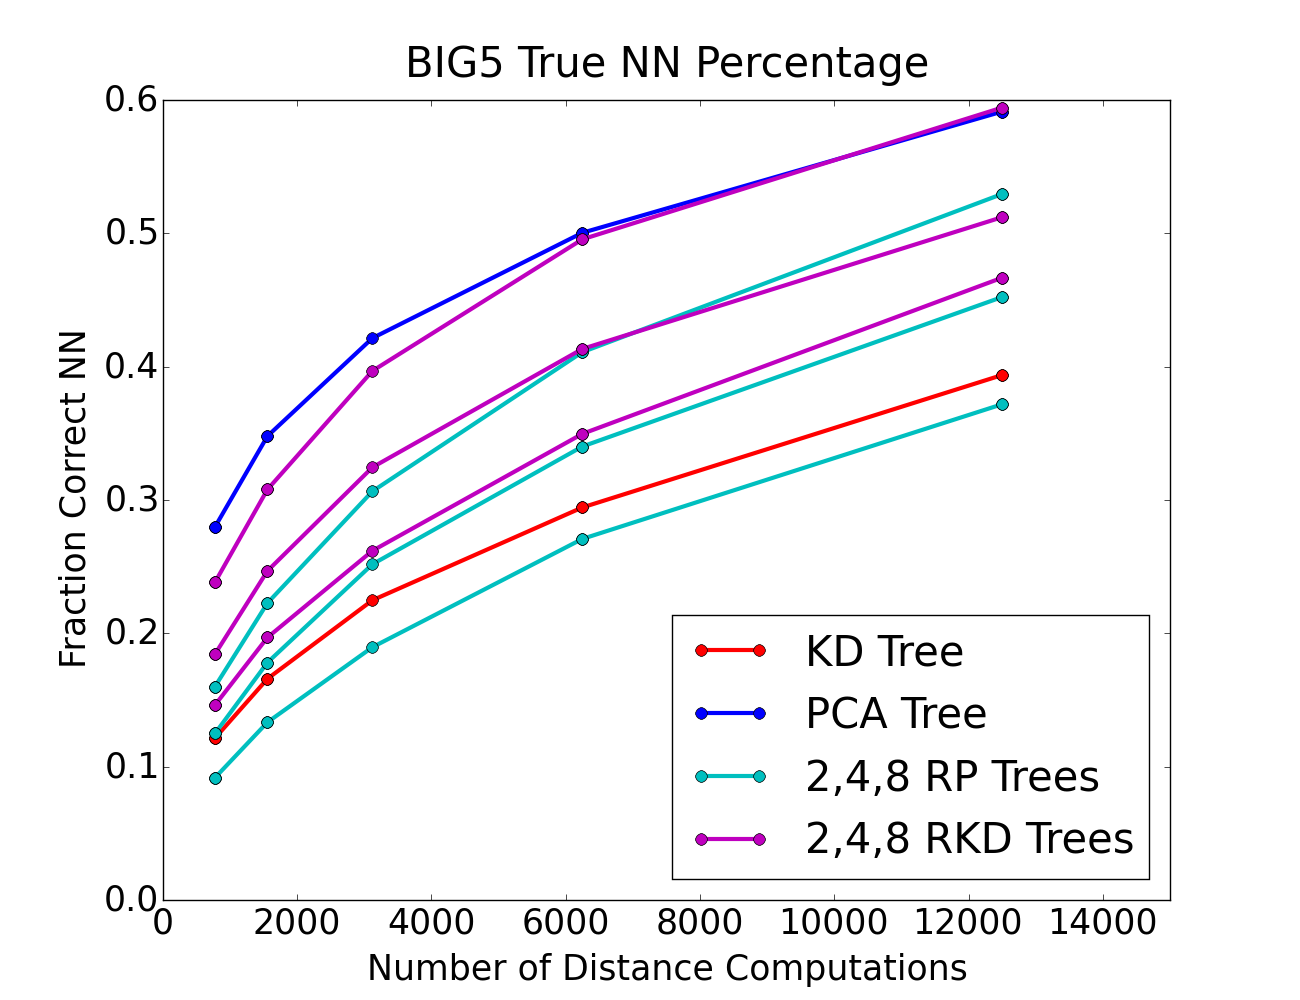
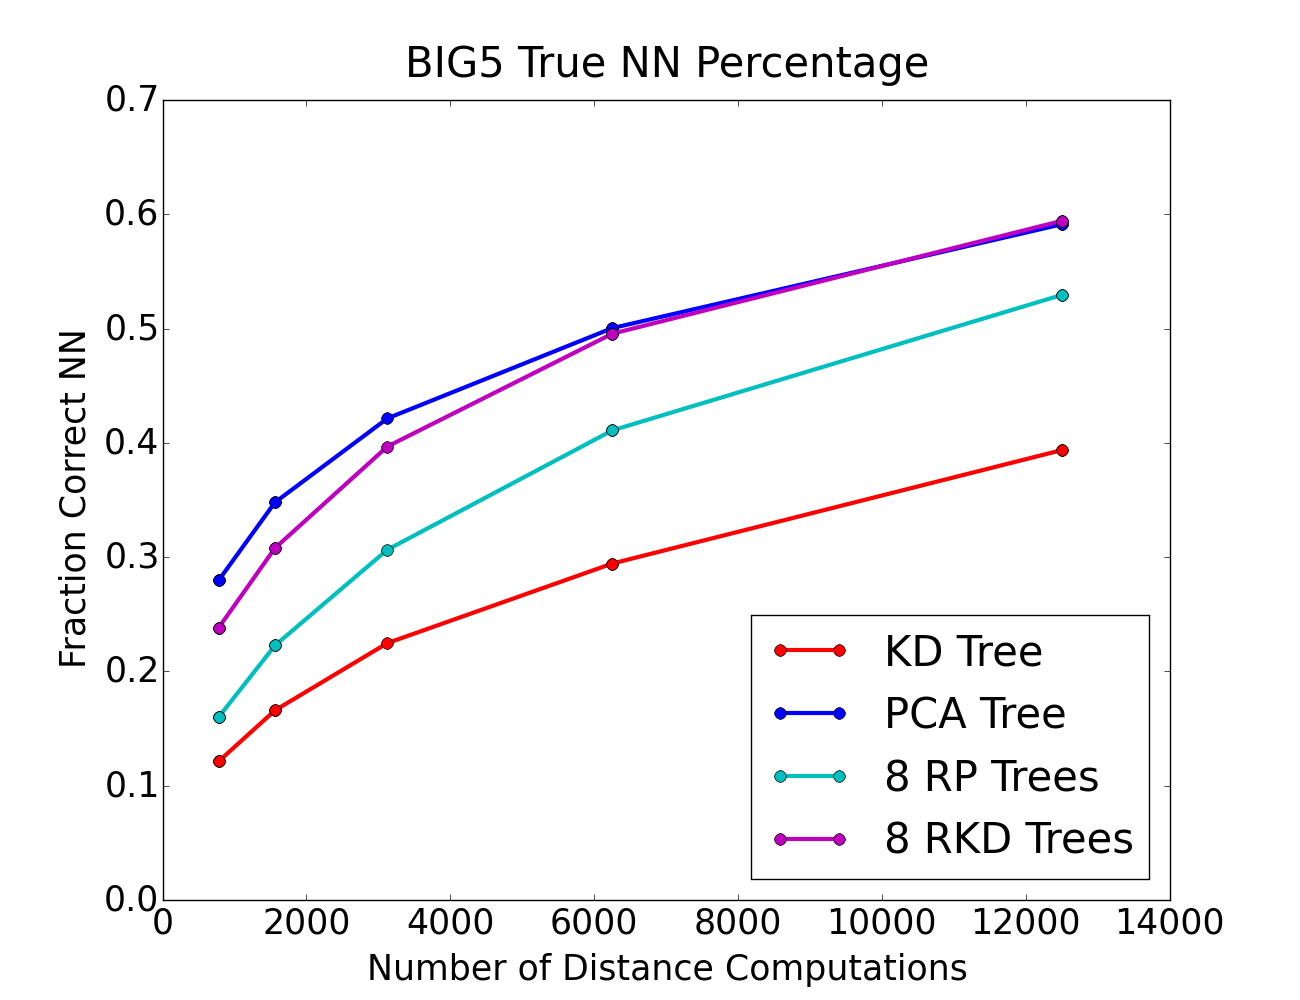
added rp tree data and graphs

diff --git a/data/mnist/pyplot.py b/data/mnist/pyplot.py
@@ -45,7 +45,7 @@ def kd():
 	plt.savefig("mnist_kd.png")
 
 def kd_pca():
-	plt.axis([0,8000,0.3,0.8])
+	plt.axis([0,8000,0.3,0.9])
 	kd_x, kd_y = read_file(3,2,'kd_tree.dat')
 	pca_x, pca_y = read_file(3,2,'pca_tree.dat')
 	kd_line, = plt.plot(kd_x, kd_y, 'ro-', label='KD Tree', lw=3, ms=8)
@@ -160,45 +160,47 @@ def kd_pca_ran():
 	figure.set_size_inches(13, 10)
 	plt.savefig("mnist_kd_pca_ran8.png")
 
-def kd_pca_rp():
-	plt.axis([0,8000,0.2,1])
+def rp2_kd():
+	plt.axis([0,8000,0.3,0.8])
 	kd_x, kd_y = read_file(3,2,'kd_tree.dat')
-	pca_x, pca_y = read_file(3,2,'pca_tree.dat')
+	ran_x, ran_y = read_file(3,2,'2rp_tree.dat')
+	kd_line, = plt.plot(kd_x, kd_y, 'ro-', label='KD Tree', lw=3, ms=8)
+	ran_line, = plt.plot(ran_x, ran_y, 'bo-', label='2 RP Trees', lw=3, ms=8)
+	plt.legend(handles=[kd_line,ran_line],loc=4)
+	figure = plt.gcf()
+	figure.set_size_inches(13, 10)
+	plt.savefig(data_set + "_rp2_kd.png")
+
+def rp8_kd():
+	plt.axis([0,8000,0.3,0.9])
+	kd_x, kd_y = read_file(3,2,'kd_tree.dat')
 	ran_x, ran_y = read_file(3,2,'2rp_tree.dat')
 	ran4_x, ran4_y = read_file(3,2,'4rp_tree.dat')
 	ran8_x, ran8_y = read_file(3,2,'8rp_tree.dat')
 	kd_line, = plt.plot(kd_x, kd_y, 'ro-', label='KD Tree', lw=3, ms=8)
-	pca_line, = plt.plot(pca_x, pca_y, 'bo-', label='PCA Tree', lw=3, ms=8)
 	ran_line, = plt.plot(ran_x, ran_y, 'go-', label='2 RP Trees', lw=3, ms=8)
-	ran4_line, = plt.plot(ran4_x, ran4_y, 'co-', label='4 RP Trees', lw=3, ms=8)
+	ran4_line, = plt.plot(ran4_x, ran4_y, 'bo-', label='4 RP Trees', lw=3, ms=8)
 	ran8_line, = plt.plot(ran8_x, ran8_y, 'mo-', label='8 RP Trees', lw=3, ms=8)
-	plt.legend(handles=[kd_line,pca_line, ran_line,ran4_line,ran8_line],loc=4)
+	plt.legend(handles=[kd_line,ran_line,ran4_line,ran8_line],loc=4)
 	figure = plt.gcf()
 	figure.set_size_inches(13, 10)
-	plt.savefig("mnist_kd_pca_rp8.png")
+	plt.savefig(data_set + "_rp8_kd.png")
 
-def kd_pca_rp_ran():
-	plt.axis([0,8000,0,1])
+def kd_pca_ran_rp():
+	plt.axis([0,8000,0.3,1])
 	kd_x, kd_y = read_file(3,2,'kd_tree.dat')
 	pca_x, pca_y = read_file(3,2,'pca_tree.dat')
-	rp_x, rp_y = read_file(3,2,'2rp_tree.dat')
-	rp4_x, rp4_y = read_file(3,2,'4rp_tree.dat')
 	rp8_x, rp8_y = read_file(3,2,'8rp_tree.dat')
+	ran8_x, ran8_y = read_file(3,2,'8rkd_tree.dat')
 	kd_line, = plt.plot(kd_x, kd_y, 'ro-', label='KD Tree', lw=3, ms=8)
 	pca_line, = plt.plot(pca_x, pca_y, 'bo-', label='PCA Tree', lw=3, ms=8)
-	rp_line, = plt.plot(rp_x, rp_y, 'yo-', label='2 RP Trees', lw=3, ms=8)
-	rp4_line, = plt.plot(rp4_x, rp4_y, 'yo-', label='4 RP Trees', lw=3, ms=8)
-	rp8_line, = plt.plot(rp8_x, rp8_y, 'yo-', label='8 RP Trees', lw=3, ms=8)
-	ran_x, ran_y = read_file(3,2,'2rkd_tree.dat')
-	ran4_x, ran4_y = read_file(3,2,'4rkd_tree.dat')
-	ran8_x, ran8_y = read_file(3,2,'8rkd_tree.dat')
-	ran_line, = plt.plot(ran_x, ran_y, 'ko-', label='2 RKD Trees', lw=3, ms=8)
-	ran4_line, = plt.plot(ran4_x, ran4_y, 'ko-', label='4 RKD Trees', lw=3, ms=8)
-	ran8_line, = plt.plot(ran8_x, ran8_y, 'ko-', label='8 RKD Trees', lw=3, ms=8)
-	plt.legend(handles=[kd_line,pca_line, rp_line, ran_line],loc=4)
+	rp8_line, = plt.plot(rp8_x, rp8_y, 'co-', label='8 RP Trees', lw=3, ms=8)
+	ran8_line, = plt.plot(ran8_x, ran8_y, 'mo-', label='8 RKD Trees', lw=3, ms=8)
+	plt.legend(handles=[kd_line, pca_line, rp8_line, ran8_line],loc=4)
 	figure = plt.gcf()
 	figure.set_size_inches(13, 10)
-	plt.savefig("mnist_kd_pca_rp8_ran8.png")
+	plt.savefig(data_set + "_kd_pca_ran8_rp8.png")
+
 
 def main():
 	font = {'size' : 25}
@@ -210,9 +212,13 @@ def main():
 	plt.xlabel('Number of Distance Computations', labelpad = 10)
 	plt.ylabel('Fraction Correct NN', labelpad = 10)
 
+	global data_set
+	data_set = 'mnist'
+
 	#kd_pca_ran()
-	kd_pca_rp_ran()
-	#ran8_kd()
+	#kd_pca_rp_ran()
+	kd_pca_ran_rp()
+	#rp8_kd()
 
 main()
 

diff --git a/data/word2vec/pyplot.py b/data/word2vec/pyplot.py
@@ -46,7 +46,7 @@ def kd():
 
 
 def kd_pca():
-	plt.axis([0,15000,0,0.7])
+	plt.axis([0,15000,0,0.6])
 	kd_x, kd_y = read_file(3,2,'kd_tree.dat')
 	pca_x, pca_y = read_file(3,2,'pca_tree.dat')
 	kd_line, = plt.plot(kd_x, kd_y, 'ro-', label='KD Tree', lw=3, ms=8)
@@ -161,25 +161,43 @@ def kd_pca_ran():
 	figure.set_size_inches(13, 10)
 	plt.savefig(data_set + "_kd_pca_ran8.png")
 
+def rp2_kd():
+	plt.axis([0,15000,0,0.6])
+	kd_x, kd_y = read_file(3,2,'kd_tree.dat')
+	ran_x, ran_y = read_file(3,2,'2rp_tree.dat')
+	kd_line, = plt.plot(kd_x, kd_y, 'ro-', label='KD Tree', lw=3, ms=8)
+	ran_line, = plt.plot(ran_x, ran_y, 'bo-', label='2 RP Trees', lw=3, ms=8)
+	plt.legend(handles=[kd_line,ran_line],loc=4)
+	figure = plt.gcf()
+	figure.set_size_inches(13, 10)
+	plt.savefig(data_set + "_rp2_kd.png")
+
+def rp8_kd():
+	plt.axis([0,15000,0,0.6])
+	kd_x, kd_y = read_file(3,2,'kd_tree.dat')
+	ran_x, ran_y = read_file(3,2,'2rp_tree.dat')
+	ran4_x, ran4_y = read_file(3,2,'4rp_tree.dat')
+	ran8_x, ran8_y = read_file(3,2,'8rp_tree.dat')
+	kd_line, = plt.plot(kd_x, kd_y, 'ro-', label='KD Tree', lw=3, ms=8)
+	ran_line, = plt.plot(ran_x, ran_y, 'go-', label='2 RP Trees', lw=3, ms=8)
+	ran4_line, = plt.plot(ran4_x, ran4_y, 'bo-', label='4 RP Trees', lw=3, ms=8)
+	ran8_line, = plt.plot(ran8_x, ran8_y, 'mo-', label='8 RP Trees', lw=3, ms=8)
+	plt.legend(handles=[kd_line,ran_line,ran4_line,ran8_line],loc=4)
+	figure = plt.gcf()
+	figure.set_size_inches(13, 10)
+	plt.savefig(data_set + "_rp8_kd.png")
+
 def kd_pca_ran_rp():
 	plt.axis([0,15000,0,0.6])
 	kd_x, kd_y = read_file(3,2,'kd_tree.dat')
 	pca_x, pca_y = read_file(3,2,'pca_tree.dat')
-	rp_x, rp_y = read_file(3,2,'2rp_tree.dat')
-	rp4_x, rp4_y = read_file(3,2,'4rp_tree.dat')
 	rp8_x, rp8_y = read_file(3,2,'8rp_tree.dat')
-	ran_x, ran_y = read_file(3,2,'2rkd_tree.dat')
-	ran4_x, ran4_y = read_file(3,2,'4rkd_tree.dat')
 	ran8_x, ran8_y = read_file(3,2,'8rkd_tree.dat')
 	kd_line, = plt.plot(kd_x, kd_y, 'ro-', label='KD Tree', lw=3, ms=8)
 	pca_line, = plt.plot(pca_x, pca_y, 'bo-', label='PCA Tree', lw=3, ms=8)
-	rp_line, = plt.plot(rp_x, rp_y, 'co-', label='2,4,8 RP Trees', lw=3, ms=8)
-	rp4_line, = plt.plot(rp4_x, rp4_y, 'co-', label='4 RP Trees', lw=3, ms=8)
 	rp8_line, = plt.plot(rp8_x, rp8_y, 'co-', label='8 RP Trees', lw=3, ms=8)
-	ran_line, = plt.plot(ran_x, ran_y, 'mo-', label='2,4,8 RKD Trees', lw=3, ms=8)
-	ran4_line, = plt.plot(ran4_x, ran4_y, 'mo-', label='4 RKD Trees', lw=3, ms=8)
 	ran8_line, = plt.plot(ran8_x, ran8_y, 'mo-', label='8 RKD Trees', lw=3, ms=8)
-	plt.legend(handles=[kd_line, pca_line, rp_line, ran_line],loc=4)
+	plt.legend(handles=[kd_line, pca_line, rp8_line, ran8_line],loc=4)
 	figure = plt.gcf()
 	figure.set_size_inches(13, 10)
 	plt.savefig(data_set + "_kd_pca_ran8_rp8.png")
@@ -194,7 +212,8 @@ def main():
 
 	global data_set
 	data_set = 'w2v'
-	kd()
+	#kd_pca_ran_rp()
+	rp8_kd()
 
 main()
 

diff --git a/data/big5/pyplot.py b/data/big5/pyplot.py
@@ -161,25 +161,43 @@ def kd_pca_ran():
 	figure.set_size_inches(13, 10)
 	plt.savefig(data_set + "_kd_pca_ran8.png")
 
-def kd_pca_ran_rp():
+def rp2_kd():
+	plt.axis([0,15000,0,0.5])
+	kd_x, kd_y = read_file(3,2,'kd_tree.dat')
+	ran_x, ran_y = read_file(3,2,'2rp_tree.dat')
+	kd_line, = plt.plot(kd_x, kd_y, 'ro-', label='KD Tree', lw=3, ms=8)
+	ran_line, = plt.plot(ran_x, ran_y, 'bo-', label='2 RP Trees', lw=3, ms=8)
+	plt.legend(handles=[kd_line,ran_line],loc=4)
+	figure = plt.gcf()
+	figure.set_size_inches(13, 10)
+	plt.savefig(data_set + "_rp2_kd.png")
+
+def rp8_kd():
 	plt.axis([0,15000,0,0.6])
 	kd_x, kd_y = read_file(3,2,'kd_tree.dat')
+	ran_x, ran_y = read_file(3,2,'2rp_tree.dat')
+	ran4_x, ran4_y = read_file(3,2,'4rp_tree.dat')
+	ran8_x, ran8_y = read_file(3,2,'8rp_tree.dat')
+	kd_line, = plt.plot(kd_x, kd_y, 'ro-', label='KD Tree', lw=3, ms=8)
+	ran_line, = plt.plot(ran_x, ran_y, 'go-', label='2 RP Trees', lw=3, ms=8)
+	ran4_line, = plt.plot(ran4_x, ran4_y, 'bo-', label='4 RP Trees', lw=3, ms=8)
+	ran8_line, = plt.plot(ran8_x, ran8_y, 'mo-', label='8 RP Trees', lw=3, ms=8)
+	plt.legend(handles=[kd_line,ran_line,ran4_line,ran8_line],loc=4)
+	figure = plt.gcf()
+	figure.set_size_inches(13, 10)
+	plt.savefig(data_set + "_rp8_kd.png")
+
+def kd_pca_ran_rp():
+	plt.axis([0,14000,0,0.7])
+	kd_x, kd_y = read_file(3,2,'kd_tree.dat')
 	pca_x, pca_y = read_file(3,2,'pca_tree.dat')
-	rp_x, rp_y = read_file(3,2,'2rp_tree.dat')
-	rp4_x, rp4_y = read_file(3,2,'4rp_tree.dat')
 	rp8_x, rp8_y = read_file(3,2,'8rp_tree.dat')
-	ran_x, ran_y = read_file(3,2,'2rkd_tree.dat')
-	ran4_x, ran4_y = read_file(3,2,'4rkd_tree.dat')
 	ran8_x, ran8_y = read_file(3,2,'8rkd_tree.dat')
 	kd_line, = plt.plot(kd_x, kd_y, 'ro-', label='KD Tree', lw=3, ms=8)
 	pca_line, = plt.plot(pca_x, pca_y, 'bo-', label='PCA Tree', lw=3, ms=8)
-	rp_line, = plt.plot(rp_x, rp_y, 'co-', label='2,4,8 RP Trees', lw=3, ms=8)
-	rp4_line, = plt.plot(rp4_x, rp4_y, 'co-', label='4 RP Trees', lw=3, ms=8)
 	rp8_line, = plt.plot(rp8_x, rp8_y, 'co-', label='8 RP Trees', lw=3, ms=8)
-	ran_line, = plt.plot(ran_x, ran_y, 'mo-', label='2,4,8 RKD Trees', lw=3, ms=8)
-	ran4_line, = plt.plot(ran4_x, ran4_y, 'mo-', label='4 RKD Trees', lw=3, ms=8)
 	ran8_line, = plt.plot(ran8_x, ran8_y, 'mo-', label='8 RKD Trees', lw=3, ms=8)
-	plt.legend(handles=[kd_line, pca_line, rp_line, ran_line],loc=4)
+	plt.legend(handles=[kd_line, pca_line, rp8_line, ran8_line],loc=4)
 	figure = plt.gcf()
 	figure.set_size_inches(13, 10)
 	plt.savefig(data_set + "_kd_pca_ran8_rp8.png")
@@ -194,7 +212,7 @@ def main():
 
 	global data_set
 	data_set = 'big5'
-	kd()
+	kd_pca_ran_rp()
 
 main()
 

diff --git a/data/songs/pyplot.py b/data/songs/pyplot.py
@@ -157,6 +157,48 @@ def kd_pca_ran():
 	figure.set_size_inches(13, 10)
 	plt.savefig("song_kd_pca_ran8.png")
 
+def rp2_kd():
+	plt.axis([0,15000,0,0.6])
+	kd_x, kd_y = read_file(3,2,'kd_tree.dat')
+	ran_x, ran_y = read_file(3,2,'2rp_tree.dat')
+	kd_line, = plt.plot(kd_x, kd_y, 'ro-', label='KD Tree', lw=3, ms=8)
+	ran_line, = plt.plot(ran_x, ran_y, 'bo-', label='2 RP Trees', lw=3, ms=8)
+	plt.legend(handles=[kd_line,ran_line],loc=4)
+	figure = plt.gcf()
+	figure.set_size_inches(13, 10)
+	plt.savefig(data_set + "_rp2_kd.png")
+
+def rp8_kd():
+	plt.axis([0,15000,0,0.6])
+	kd_x, kd_y = read_file(3,2,'kd_tree.dat')
+	ran_x, ran_y = read_file(3,2,'2rp_tree.dat')
+	ran4_x, ran4_y = read_file(3,2,'4rp_tree.dat')
+	ran8_x, ran8_y = read_file(3,2,'8rp_tree.dat')
+	kd_line, = plt.plot(kd_x, kd_y, 'ro-', label='KD Tree', lw=3, ms=8)
+	ran_line, = plt.plot(ran_x, ran_y, 'go-', label='2 RP Trees', lw=3, ms=8)
+	ran4_line, = plt.plot(ran4_x, ran4_y, 'bo-', label='4 RP Trees', lw=3, ms=8)
+	ran8_line, = plt.plot(ran8_x, ran8_y, 'mo-', label='8 RP Trees', lw=3, ms=8)
+	plt.legend(handles=[kd_line,ran_line,ran4_line,ran8_line],loc=4)
+	figure = plt.gcf()
+	figure.set_size_inches(13, 10)
+	plt.savefig(data_set + "_rp8_kd.png")
+
+def kd_pca_ran_rp():
+	plt.axis([0,14000,0,0.8])
+	kd_x, kd_y = read_file(3,2,'kd_tree.dat')
+	pca_x, pca_y = read_file(3,2,'pca_tree.dat')
+	rp8_x, rp8_y = read_file(3,2,'8rp_tree.dat')
+	ran8_x, ran8_y = read_file(3,2,'8rkd_tree.dat')
+	kd_line, = plt.plot(kd_x, kd_y, 'ro-', label='KD Tree', lw=3, ms=8)
+	pca_line, = plt.plot(pca_x, pca_y, 'bo-', label='PCA Tree', lw=3, ms=8)
+	rp8_line, = plt.plot(rp8_x, rp8_y, 'co-', label='8 RP Trees', lw=3, ms=8)
+	ran8_line, = plt.plot(ran8_x, ran8_y, 'mo-', label='8 RKD Trees', lw=3, ms=8)
+	plt.legend(handles=[kd_line, pca_line, rp8_line, ran8_line],loc=4)
+	figure = plt.gcf()
+	figure.set_size_inches(13, 10)
+	plt.savefig(data_set + "_kd_pca_ran8_rp8.png")
+
+
 def main():
 	font = {'size' : 25}
 	plt.rc('font', **font)
@@ -164,9 +206,11 @@ def main():
 	plt.xlabel('Number of Distance Computations', labelpad = 10)
 	plt.ylabel('Fraction Correct NN', labelpad = 10)
 
+	global data_set
+	data_set = 'songs'
 	#ran2_kd()
 	#ran8_kd()
-	kd_pca()
+	kd_pca_ran_rp()
 	#ran_spill_vspill()
 
 main()

diff --git a/data/cifar/pyplot.py b/data/cifar/pyplot.py
@@ -161,6 +161,46 @@ def kd_pca_ran():
 	figure.set_size_inches(13, 10)
 	plt.savefig("cifar_kd_pca_ran8.png")
 
+def rp2_kd():
+	plt.axis([0,7000,0.1,0.8])
+	kd_x, kd_y = read_file(3,2,'kd_tree.dat')
+	ran_x, ran_y = read_file(3,2,'2rp_tree.dat')
+	kd_line, = plt.plot(kd_x, kd_y, 'ro-', label='KD Tree', lw=3, ms=8)
+	ran_line, = plt.plot(ran_x, ran_y, 'bo-', label='2 RP Trees', lw=3, ms=8)
+	plt.legend(handles=[kd_line,ran_line],loc=4)
+	figure = plt.gcf()
+	figure.set_size_inches(13, 10)
+	plt.savefig(data_set + "_rp2_kd.png")
+
+def rp8_kd():
+	plt.axis([0,7000,0.1,0.8])
+	kd_x, kd_y = read_file(3,2,'kd_tree.dat')
+	ran_x, ran_y = read_file(3,2,'2rp_tree.dat')
+	ran4_x, ran4_y = read_file(3,2,'4rp_tree.dat')
+	ran8_x, ran8_y = read_file(3,2,'8rp_tree.dat')
+	kd_line, = plt.plot(kd_x, kd_y, 'ro-', label='KD Tree', lw=3, ms=8)
+	ran_line, = plt.plot(ran_x, ran_y, 'go-', label='2 RP Trees', lw=3, ms=8)
+	ran4_line, = plt.plot(ran4_x, ran4_y, 'bo-', label='4 RP Trees', lw=3, ms=8)
+	ran8_line, = plt.plot(ran8_x, ran8_y, 'mo-', label='8 RP Trees', lw=3, ms=8)
+	plt.legend(handles=[kd_line,ran_line,ran4_line,ran8_line],loc=4)
+	figure = plt.gcf()
+	figure.set_size_inches(13, 10)
+	plt.savefig(data_set + "_rp8_kd.png")
+
+def kd_pca_ran_rp():
+	plt.axis([0,7000,0.2,0.8])
+	kd_x, kd_y = read_file(3,2,'kd_tree.dat')
+	pca_x, pca_y = read_file(3,2,'pca_tree.dat')
+	rp8_x, rp8_y = read_file(3,2,'8rp_tree.dat')
+	ran8_x, ran8_y = read_file(3,2,'8rkd_tree.dat')
+	kd_line, = plt.plot(kd_x, kd_y, 'ro-', label='KD Tree', lw=3, ms=8)
+	pca_line, = plt.plot(pca_x, pca_y, 'bo-', label='PCA Tree', lw=3, ms=8)
+	rp8_line, = plt.plot(rp8_x, rp8_y, 'co-', label='8 RP Trees', lw=3, ms=8)
+	ran8_line, = plt.plot(ran8_x, ran8_y, 'mo-', label='8 RKD Trees', lw=3, ms=8)
+	plt.legend(handles=[kd_line, pca_line, rp8_line, ran8_line],loc=4)
+	figure = plt.gcf()
+	figure.set_size_inches(13, 10)
+	plt.savefig(data_set + "_kd_pca_ran8_rp8.png")
 
 def main():
 	font = {'size' : 25}
@@ -169,7 +209,10 @@ def main():
 	plt.xlabel('Number of Distance Computations', labelpad = 10)
 	plt.ylabel('Fraction Correct NN', labelpad = 10)
 
-	kd_pca_ran()
+	global data_set
+	data_set = 'cifar'
+
+	kd_pca_ran_rp()
 
 main()
 
